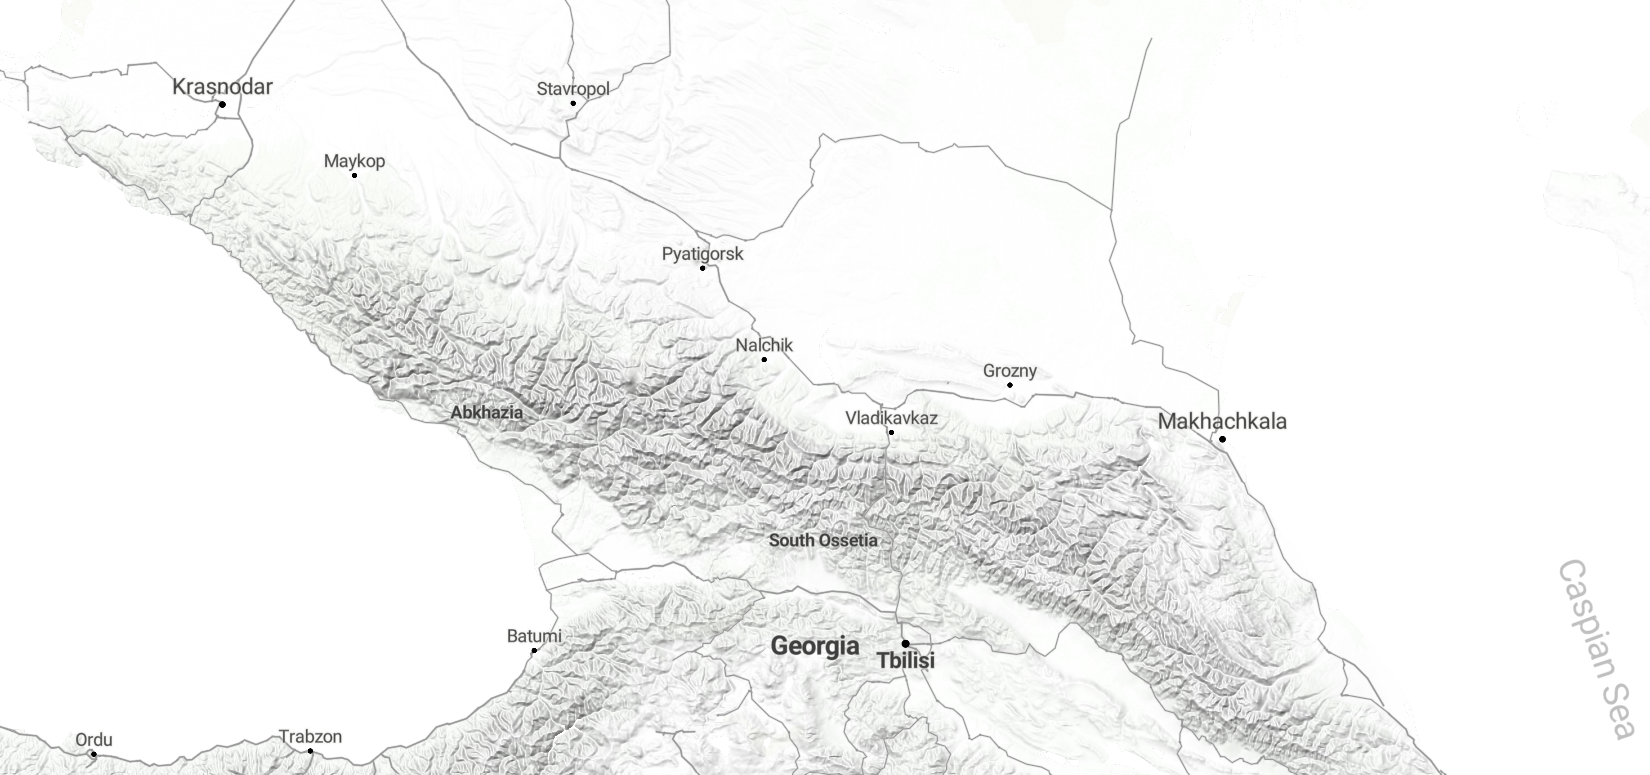
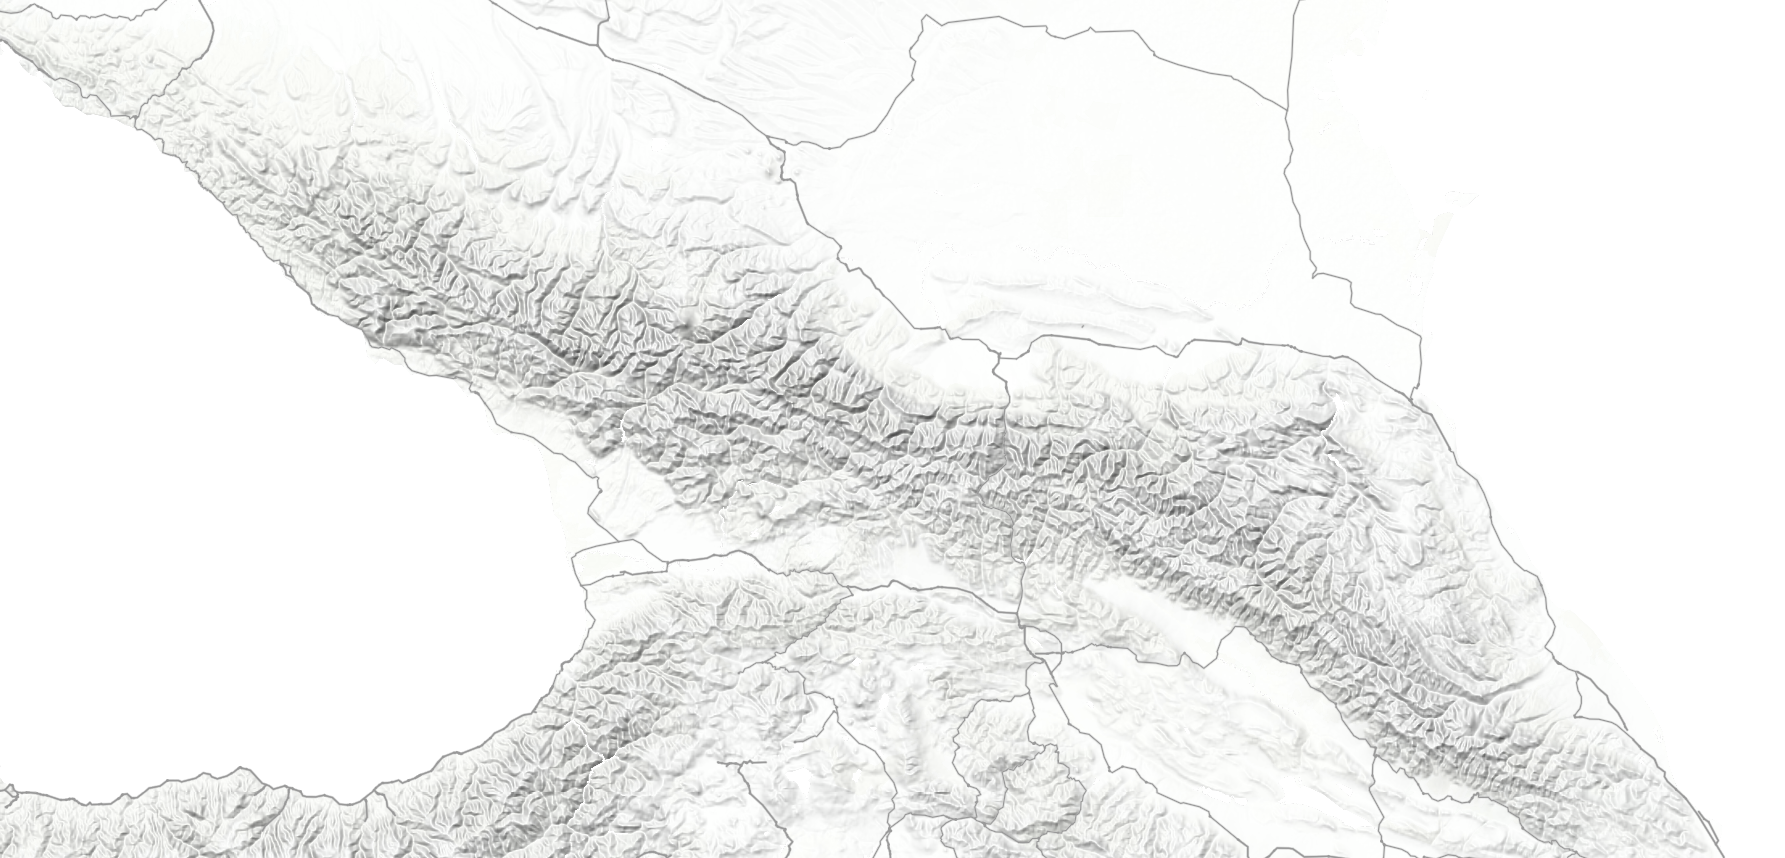
Improve map

diff --git a/src/routes/index.svelte b/src/routes/index.svelte
@@ -6,7 +6,7 @@
 <div class="flex flex-col items-center mb-8 mx-8 gap-4">
 	<div
 		id="map"
-		class="absolute w-full h-full -z-10 -translate-y-1/4 opacity-40 bg-cover bg-center"
+		class="absolute w-full h-full -z-10 -translate-y-[10%] opacity-40 bg-cover bg-center"
 	/>
 	<div class="flex flex-col items-center">
 		<img class="w-64" src="raxys.png" alt="raxys" />
@@ -14,12 +14,12 @@
 		<p class="text-center font-medium">Made with honor in North Caucasus</p>
 	</div>
 	<SocialBar telegram="raxysstudios" twitter="raxysstudios" github="raxysstudios" joint />
-	<p class="max-w-xl indent-14 text-justify">
-		They shall be my finest warriors, these men who give themselves to me. Like clay I shall mould
+	<p class="max-w-xl indent-14 text-justify italic">
+		"They shall be my finest warriors, these men who give themselves to me. Like clay I shall mould
 		them and in the furnace of war forge them. They will be of iron will and steely muscle. In great
 		armour shall I clad them and with the mightiest guns will they be armed. They will be untouched
 		by plague or disease, no sickness will blight them. They will have tactics, strategies and
-		machines such that no foe can best them in battle.
+		machines such that no foe can best them in battle."
 	</p>
 </div>
 
@@ -72,8 +72,6 @@
 
 <style>
 	#map {
-		--bg: rgb(241 245 249);
-		background-image: linear-gradient(transparent 80%, var(--bg) 90%, var(--bg)),
-			linear-gradient(-160deg, transparent 60%, var(--bg) 70%, var(--bg)), url('map.png');
+		background-image: linear-gradient(transparent 80%, rgb(241 245 249)), url('map.png');
 	}
 </style>
